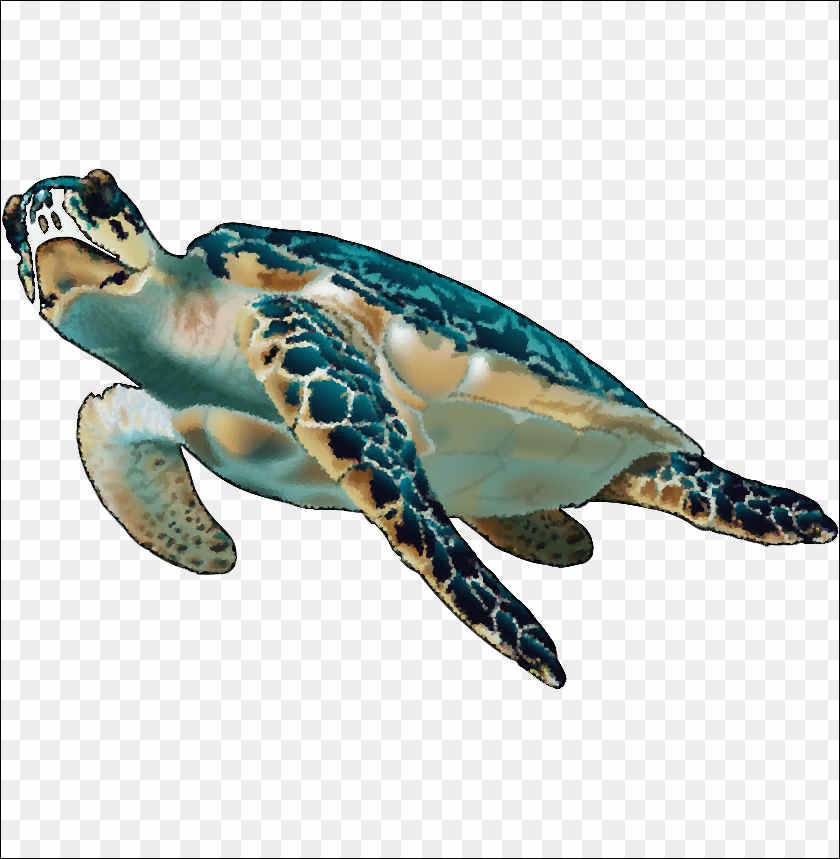
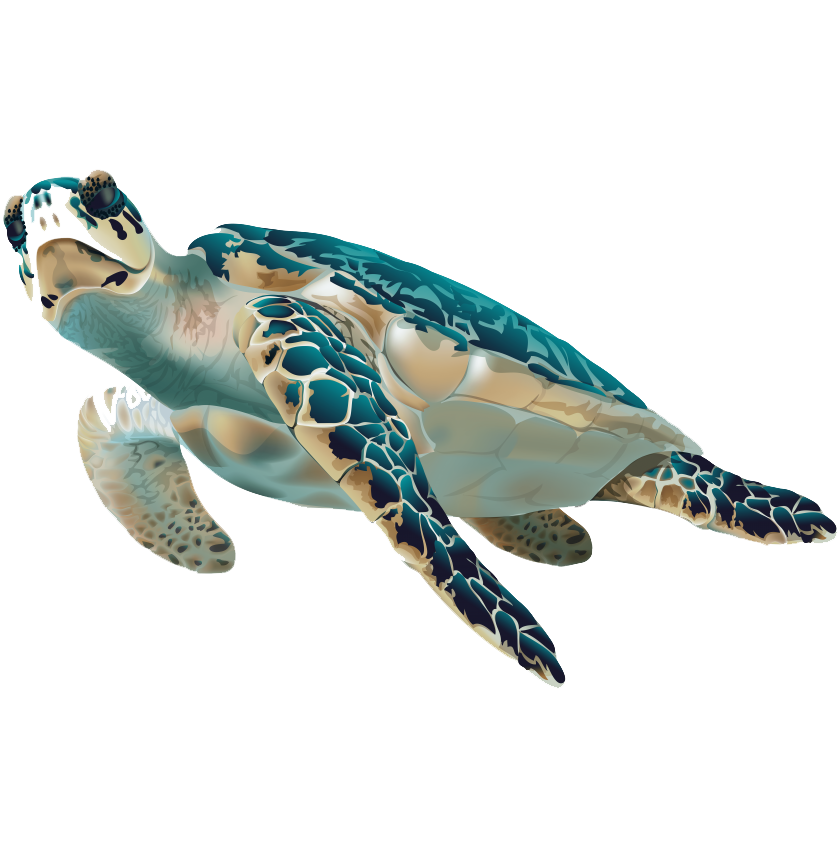
tried fixing turtle images

Changed region(s): [[0.0, 0.0, 1.0, 1.0]]

diff --git a/templates/clicker.html b/templates/clicker.html
@@ -13,7 +13,7 @@
 <!-- Hack: Set bulbs and pass as variables via Python render_template
            add new images (ie PNGs) to project -->
 <!-- use your PNGs as default -->
-{% set imgBulbOn = "/static/turtleon!.png" %}
+{% set imgBulbOn = "/static/turtleyes.png" %}
 {% set imgBulbOff = "/static/turtledefault.png" %}
 {% set msgTurnOn = "Turn On" %}
 {% set msgTurnOff = "Turn Off" %}
